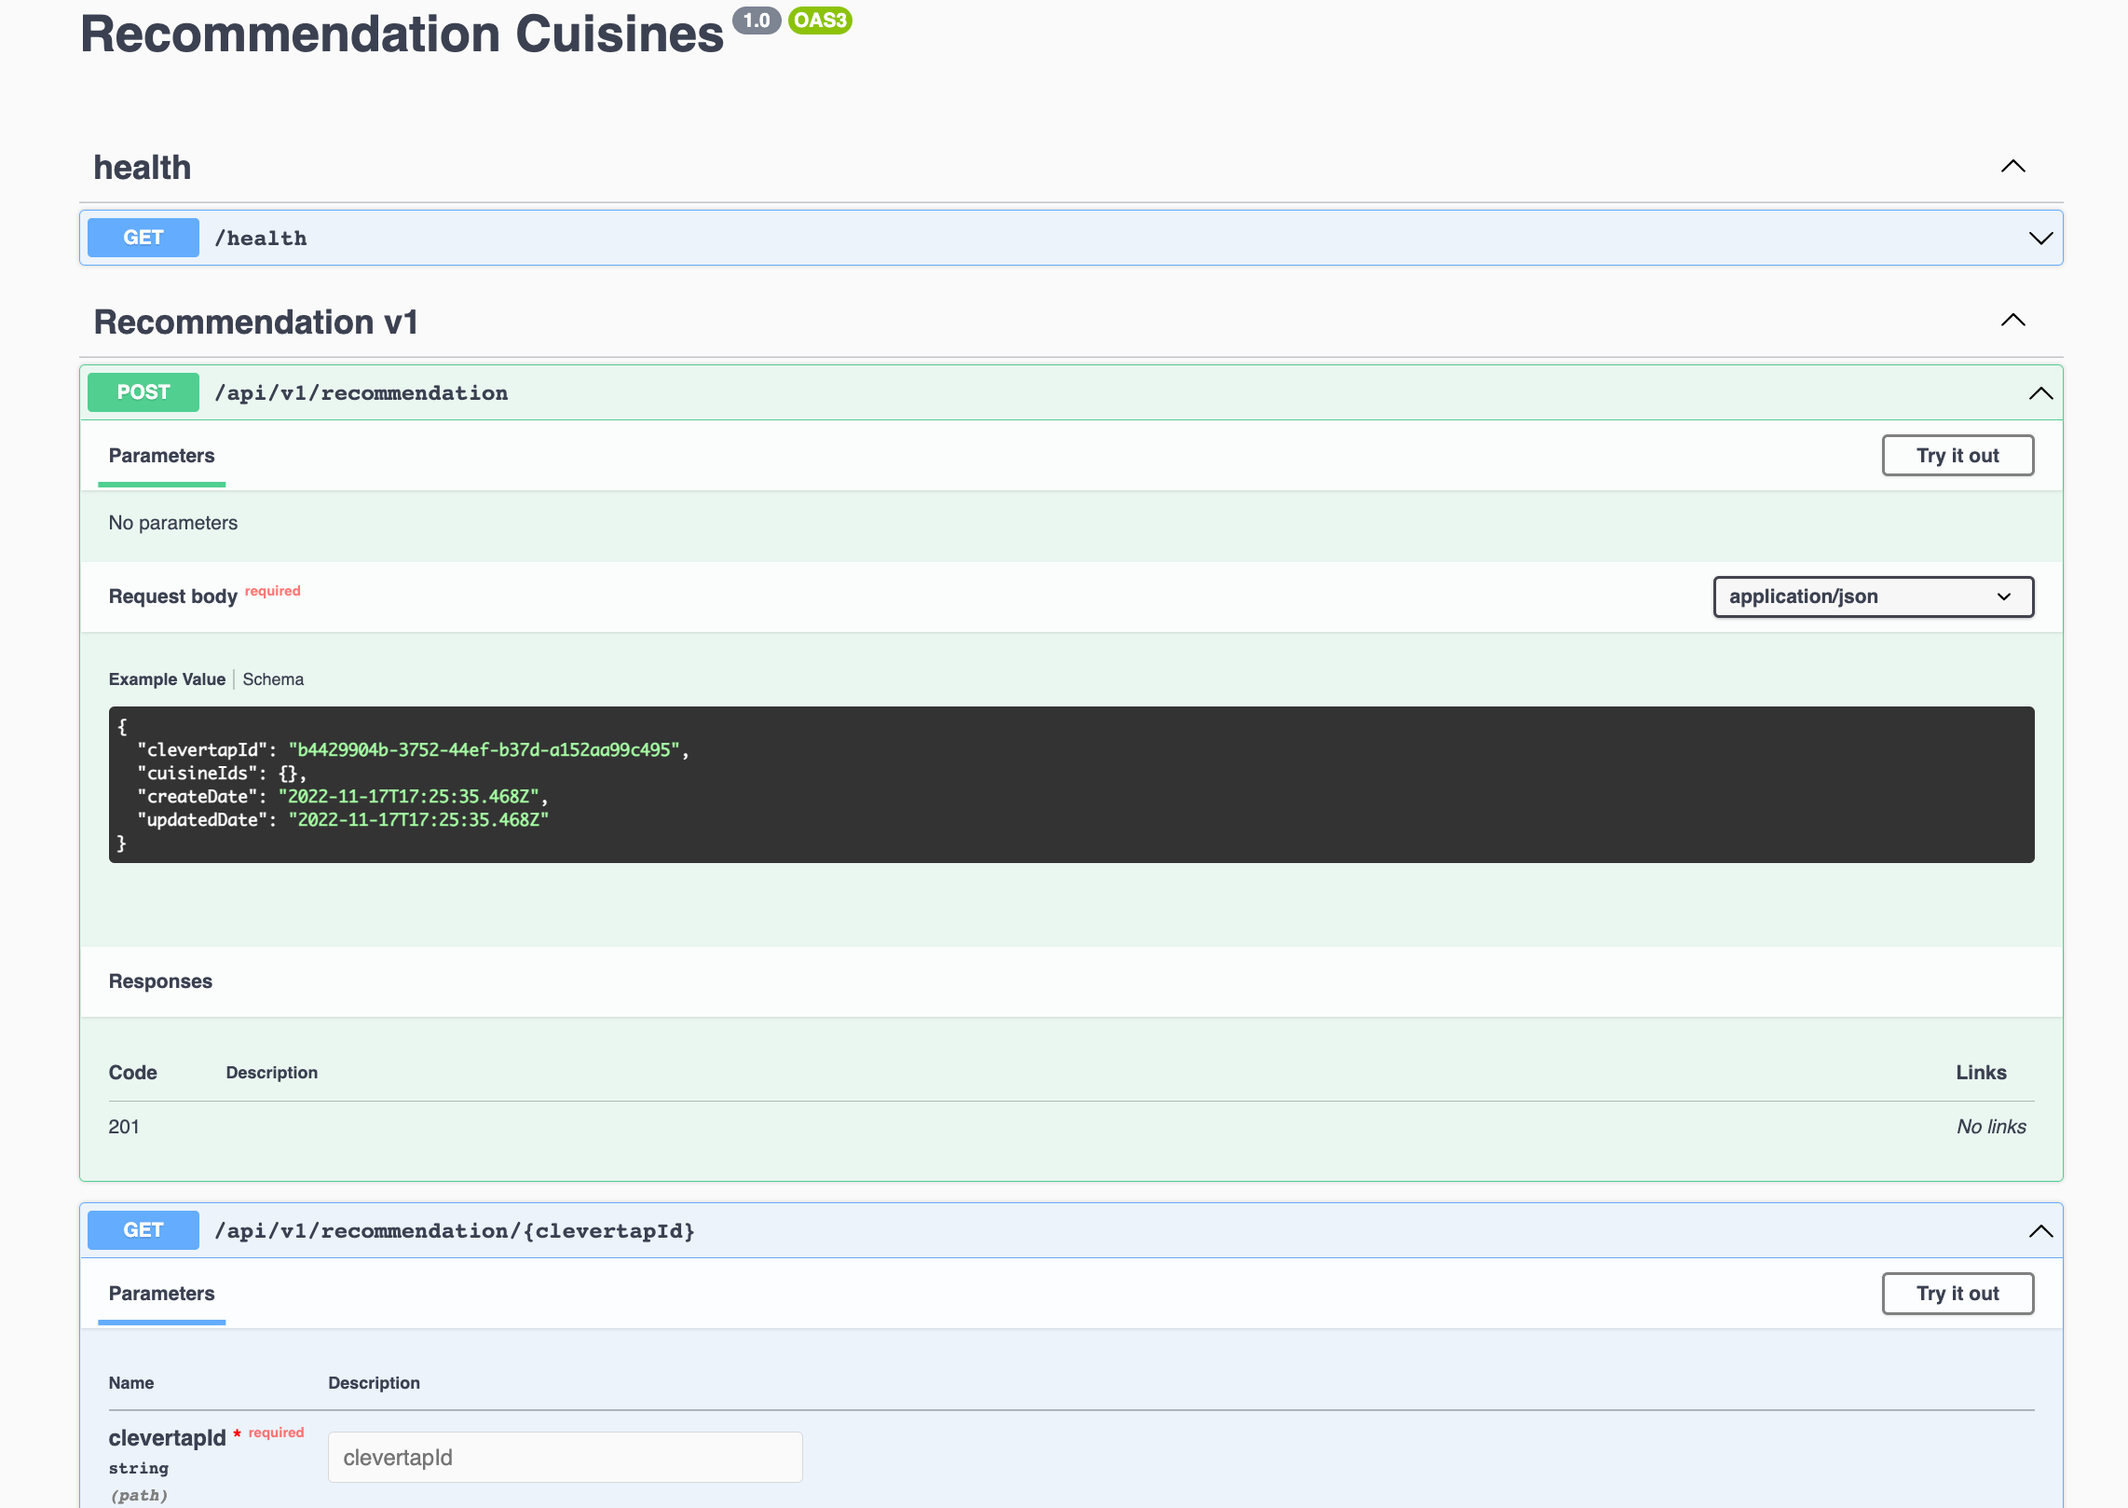
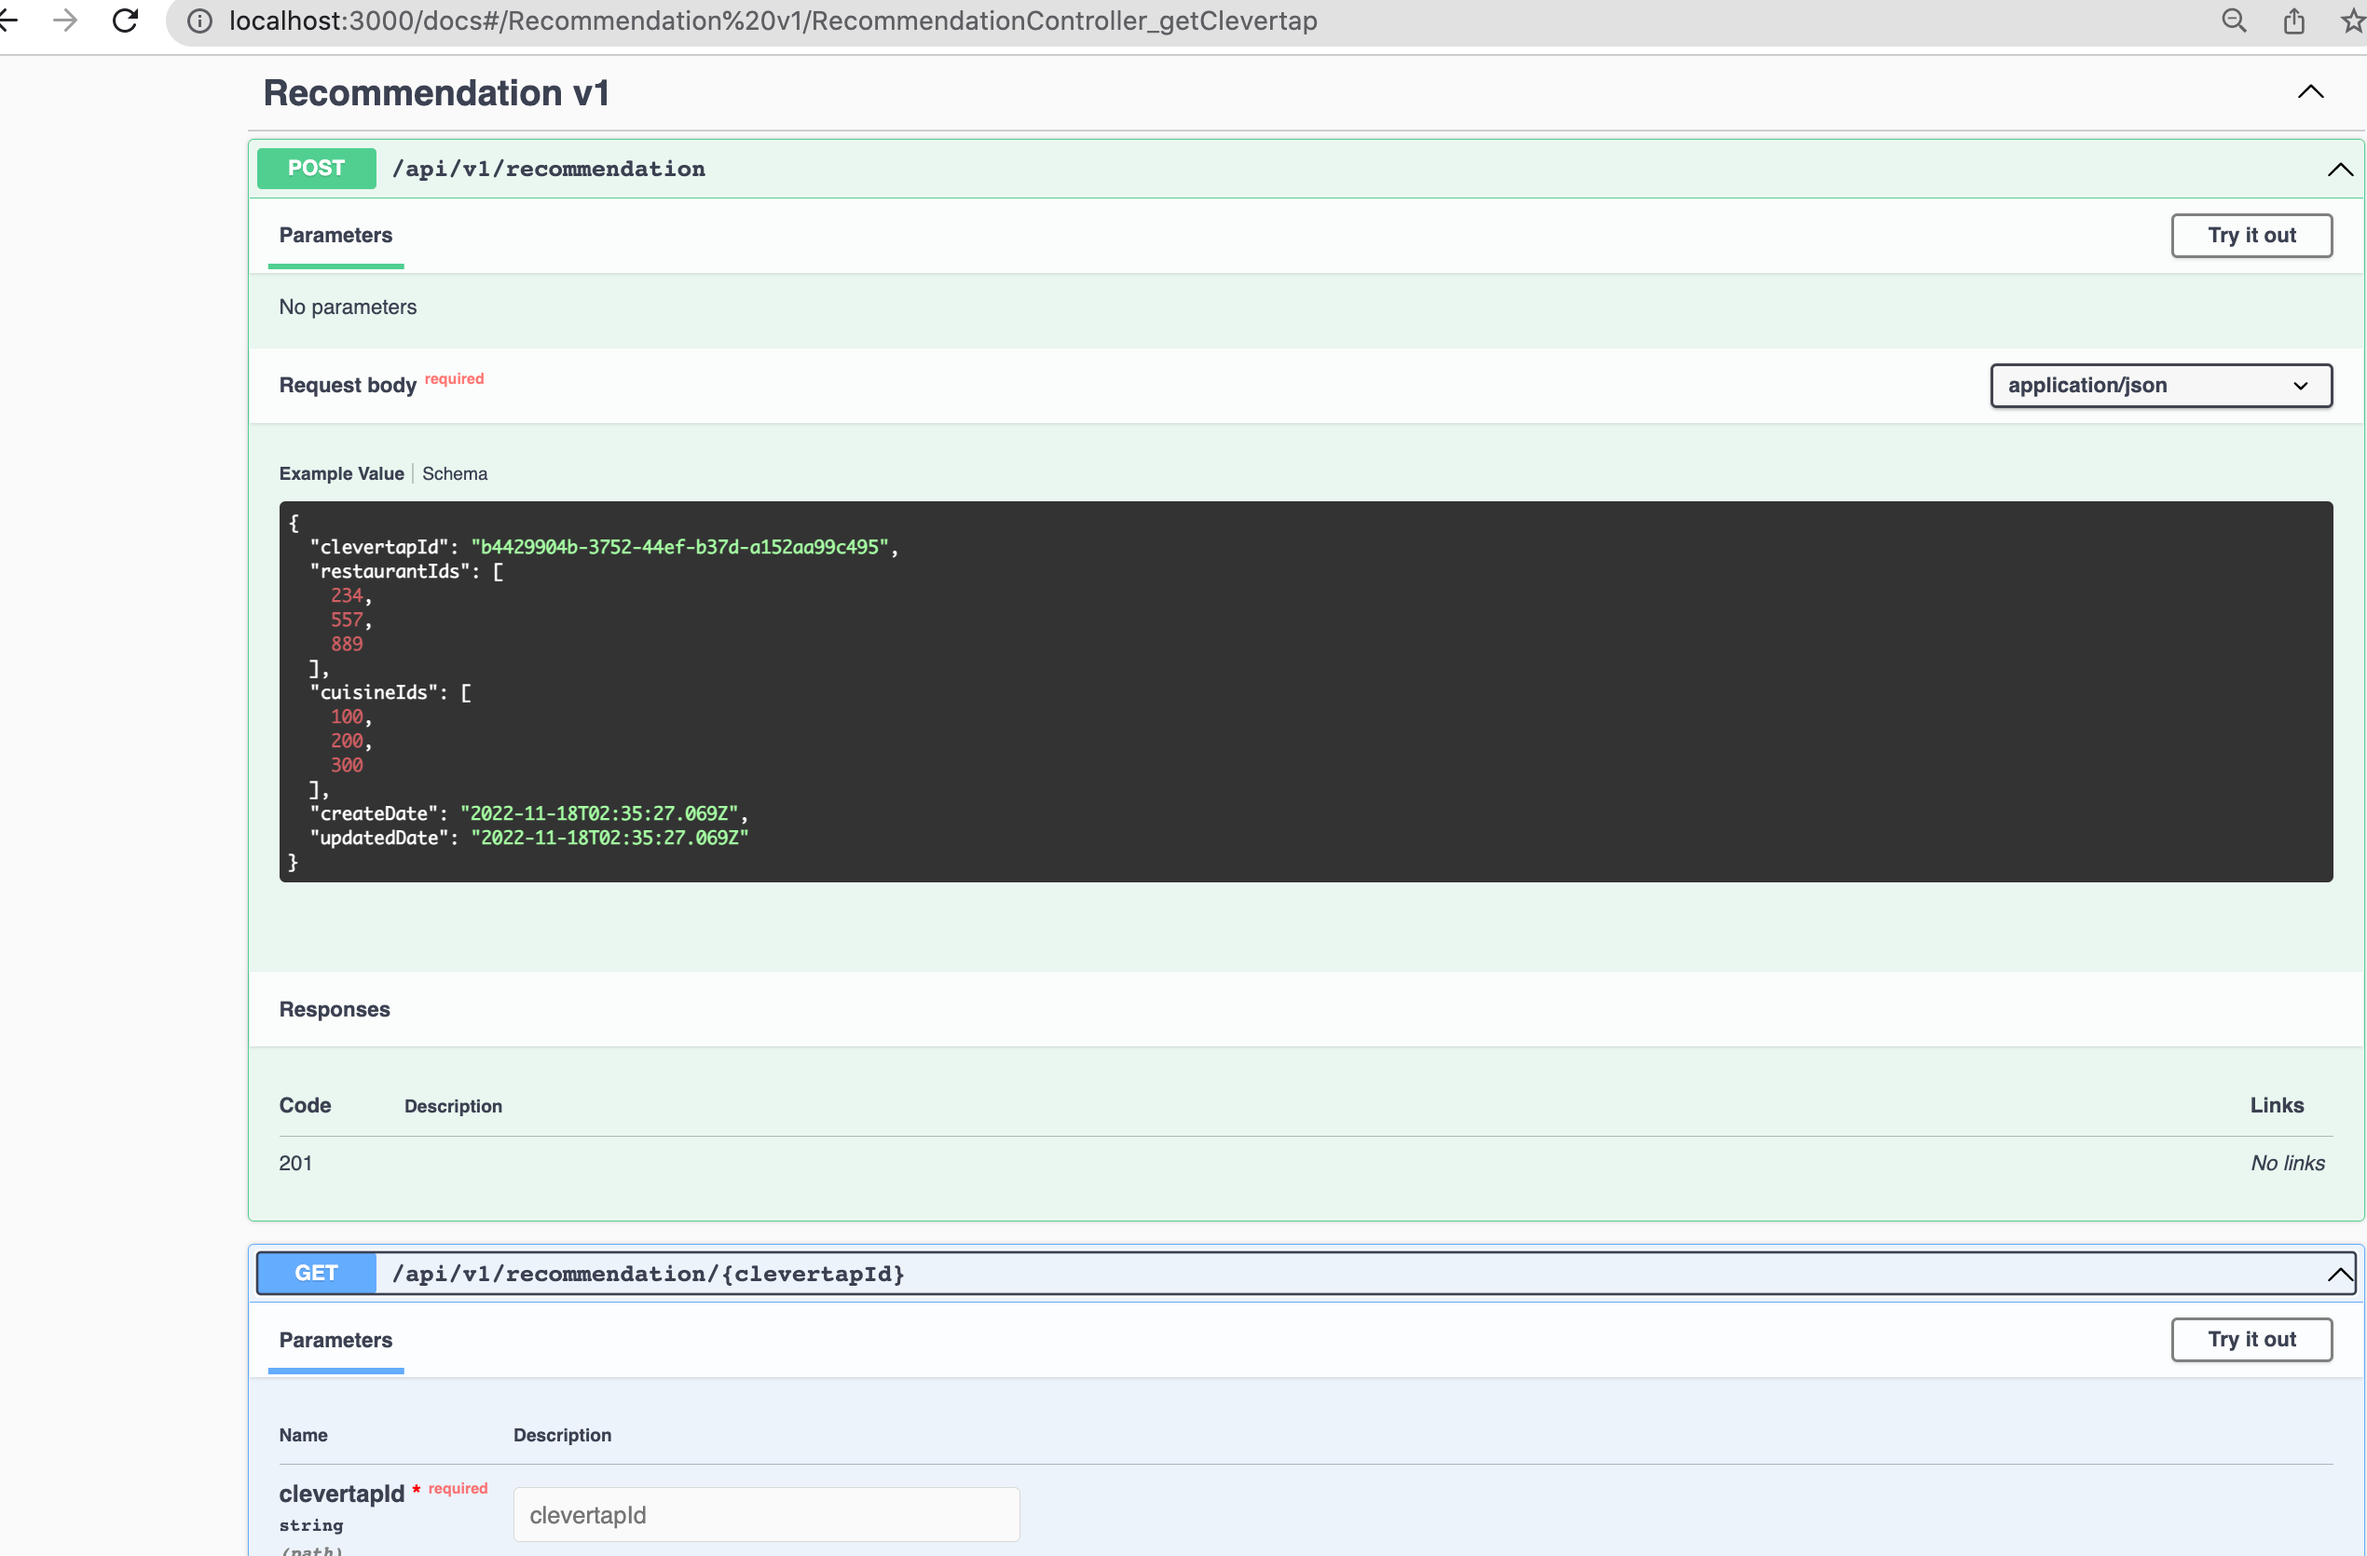
added image

Changed region(s): [[0.0311, 0.0, 1.0, 1.0], [0.0311, 0.8962, 0.2798, 1.0], [0.0311, 0.6489, 0.1554, 0.6799]]

diff --git a/README.md b/README.md
@@ -65,7 +65,9 @@ $ {}url/docs
 # Upsert Recommendation
 ```
 Request: 
-url : [POST] {url}/recommendation
+Base_url = /api/v1
+
+url : [POST] {Base_url}/recommendation
 payload :  {
 	 "clevertapId" : "b5229904b-3752-44ef-b37d-a152aa99c495",
     "restaurantIds" : [ 
@@ -73,6 +75,11 @@ payload :  {
         345, 
         322, 
         433
+    ],
+     "cuisineIds" : [ 
+        450, 
+        321, 
+        333
     ]
  }
 
@@ -88,14 +95,21 @@ Response:
 			345,
 			322,
 			433
-		]
+		],
+    "cuisineIds" : [ 
+        450, 
+        321, 
+        333
+    ]
 	}
 }
 ```
 # Get Recommendation by clevertapId
 ```
 Request: 
-url : [Get] {url}/recommendation/{clevertapId}
+Base_url = /api/v1
+
+url : [Get] {Base_url}/recommendation/{clevertapId}
 payload :  {
 	 "clevertapId" : "b5229904b-3752-44ef-b37d-a152aa99c495",
     "restaurantIds" : [ 
@@ -103,6 +117,11 @@ payload :  {
         345, 
         322, 
         433
+    ],
+     "cuisineIds" : [ 
+        450, 
+        321, 
+        333
     ]
  }
 
@@ -118,7 +137,12 @@ Response:
 			345,
 			322,
 			433
-		]
+		],
+     "cuisineIds" : [ 
+        450, 
+        321, 
+        333
+    ]
 	}
 }
 ```
